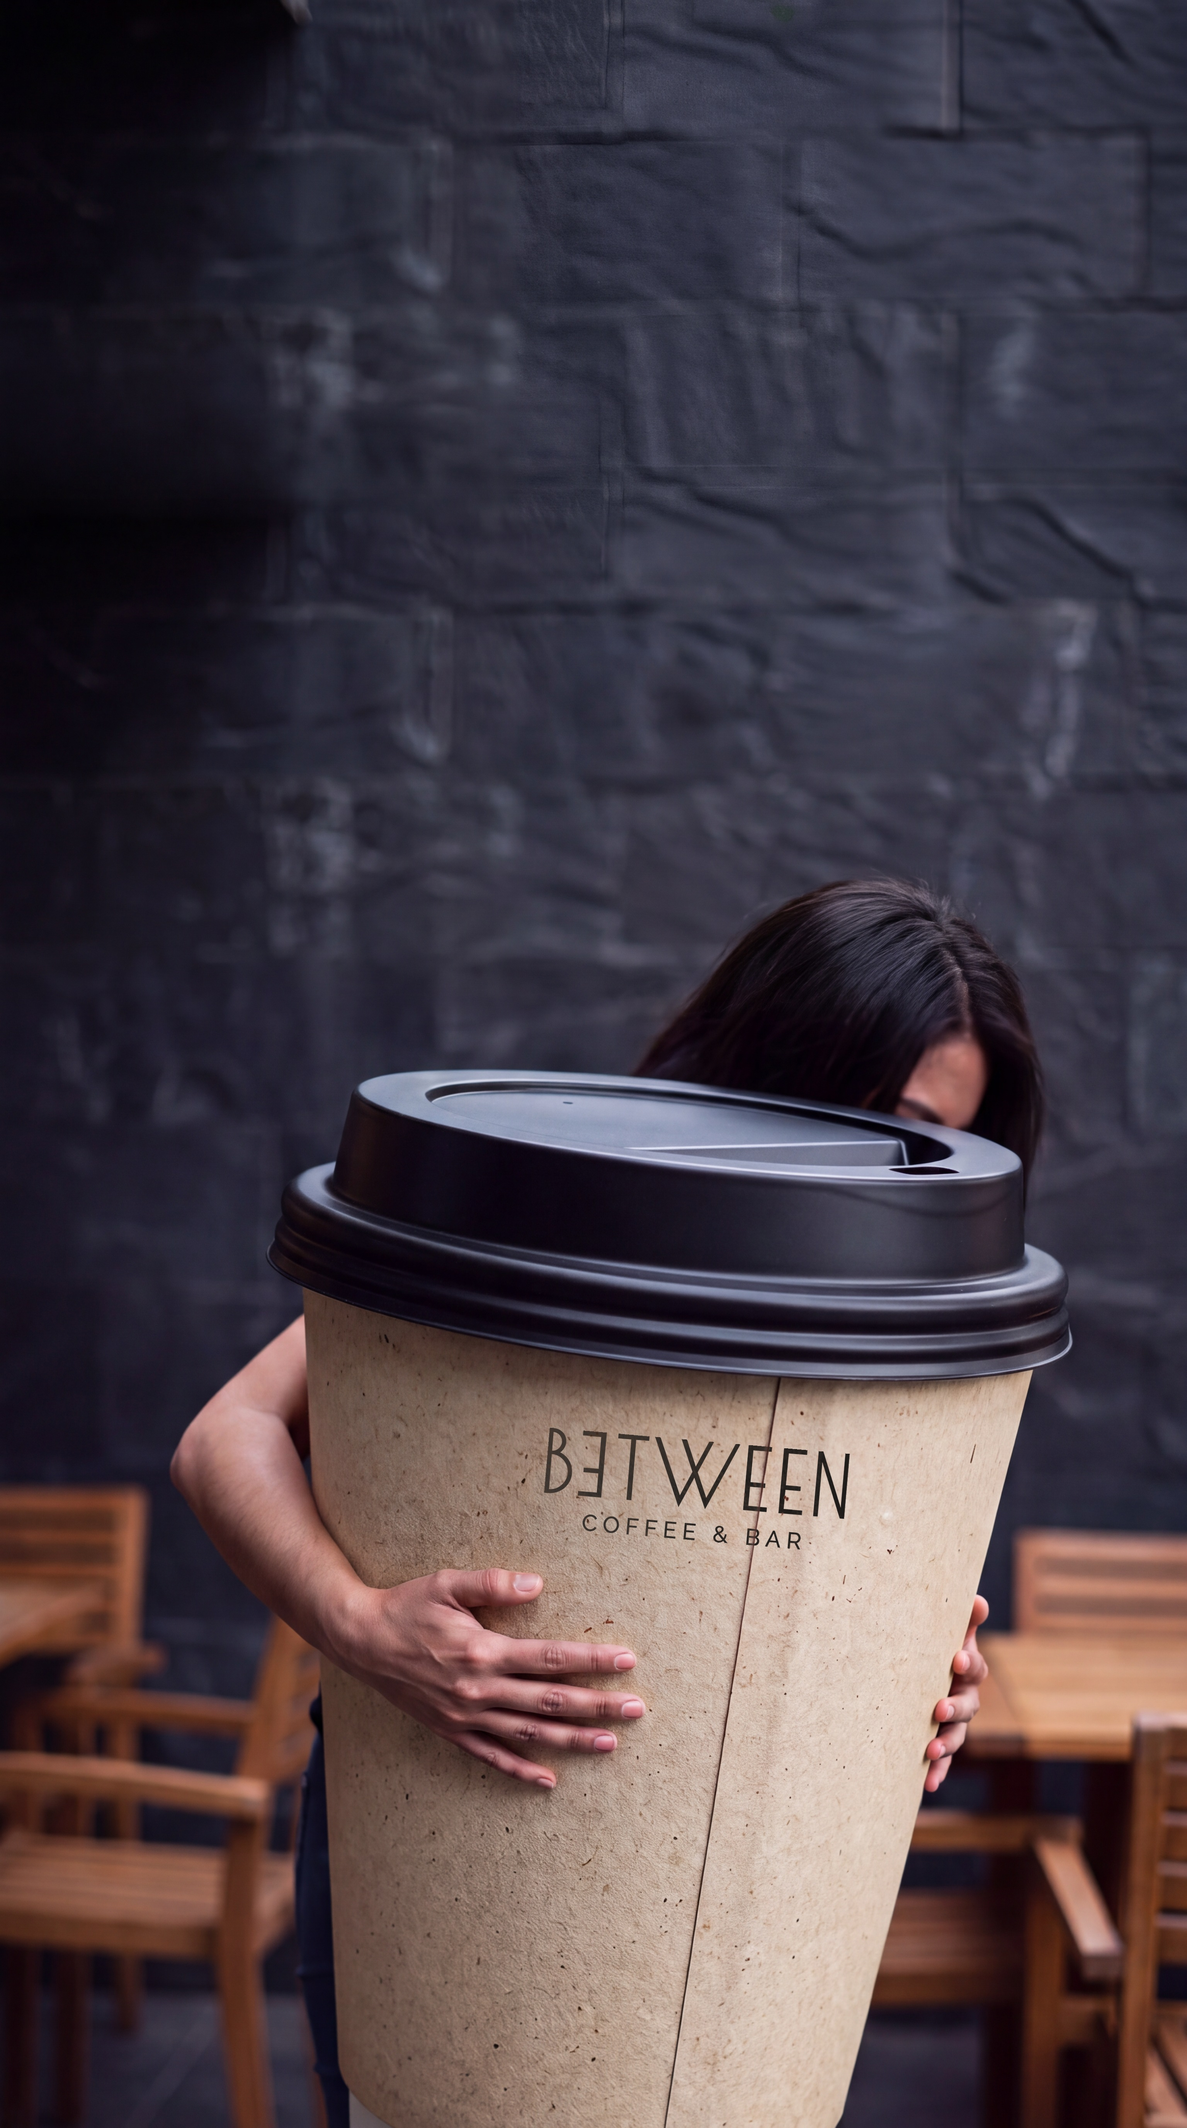
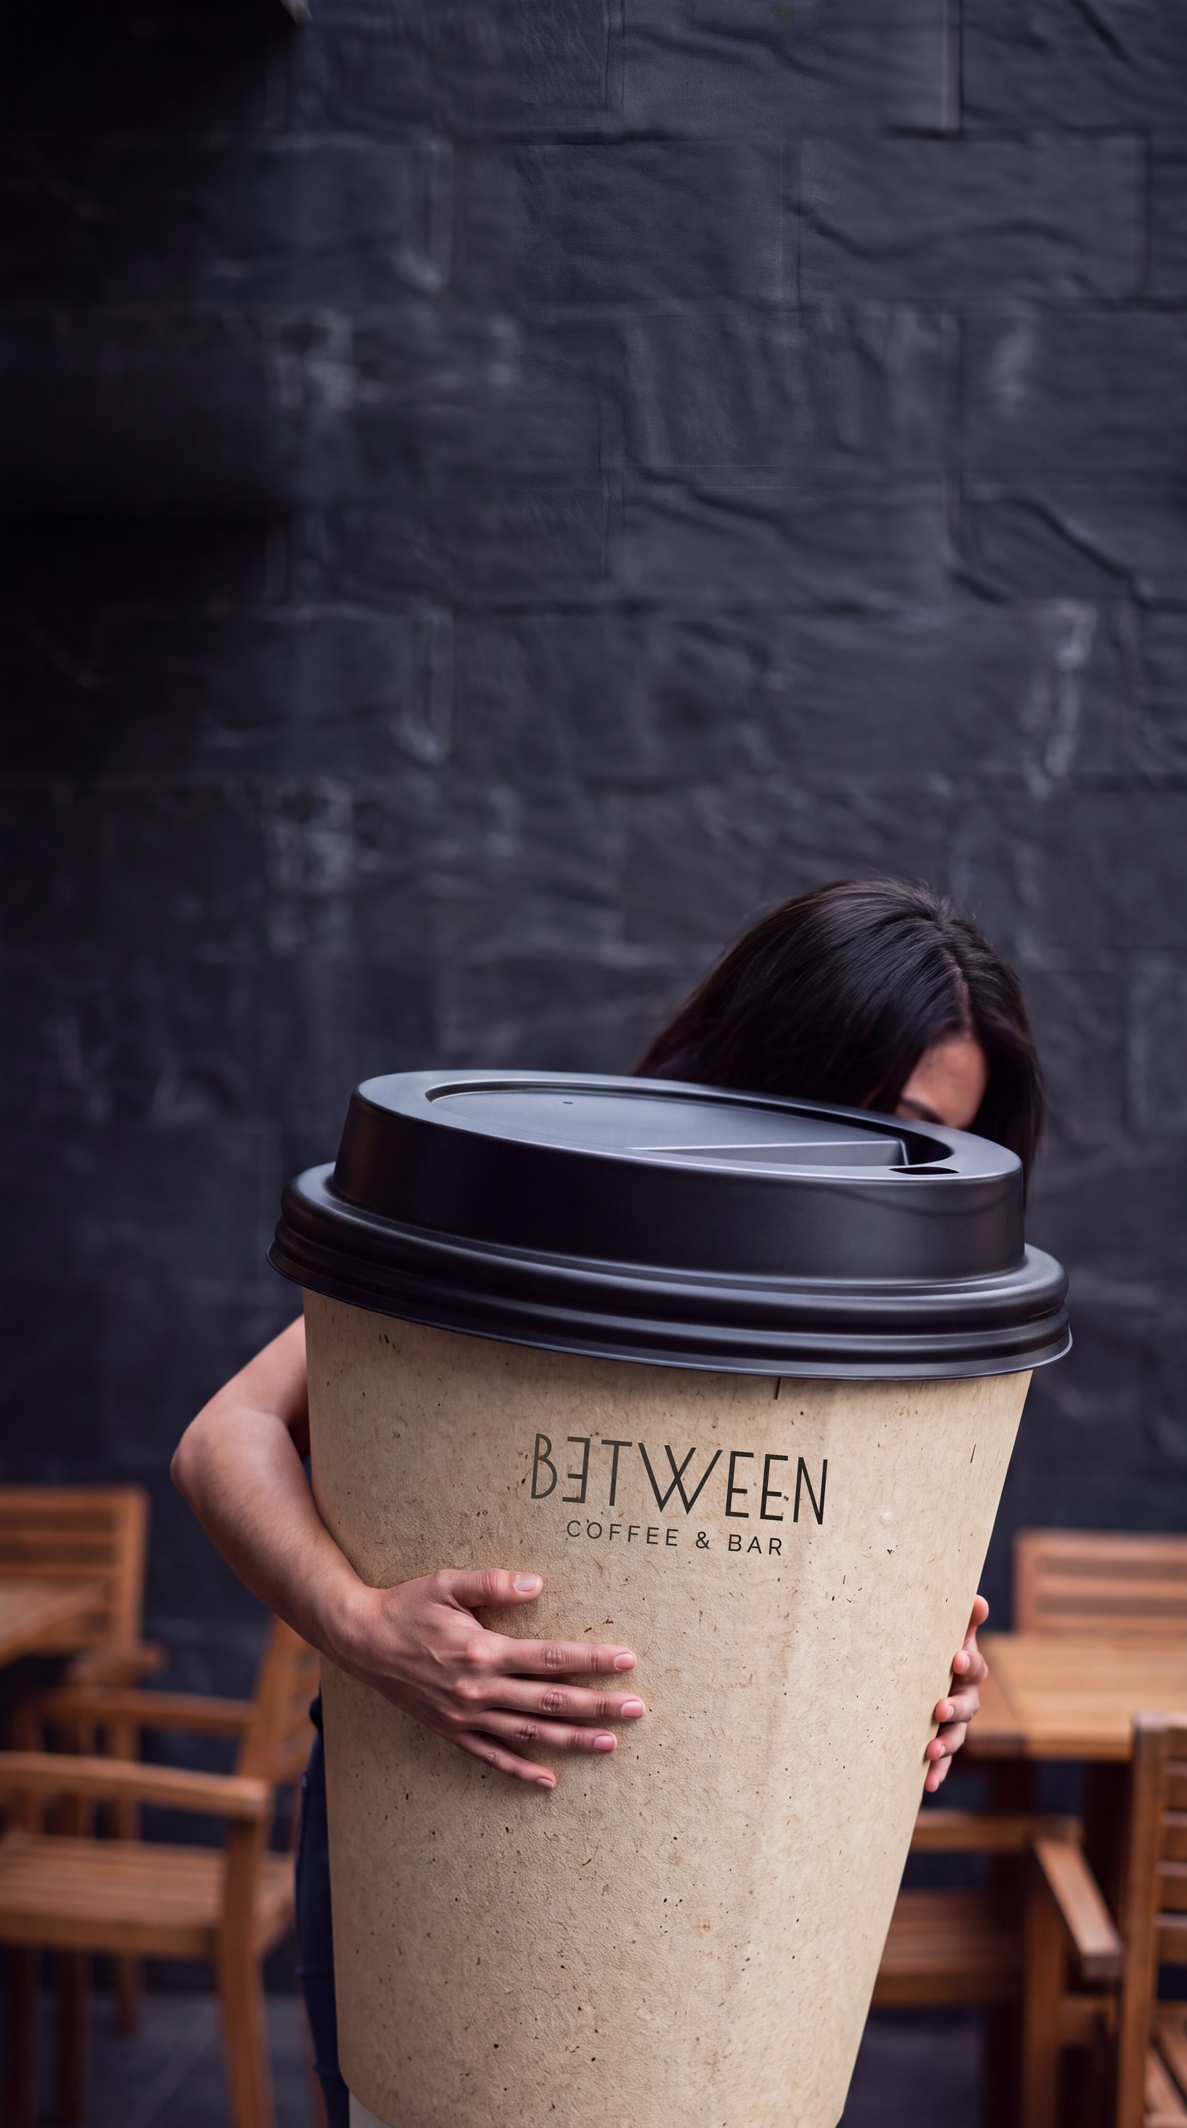
BETWEEN S5 ronda 3: la animada aprobada, y el detalle del vaso de la estatica
La historia 2 (30-09) quedo APROBADA y no se toco. En la 1 (28-09), dos arreglos
de detalle sobre el vaso; el tamano del vaso, las tipografias y la persona
quedaron como estaban. Mismo archivo de Drive: el enlace no cambio.

LA LINEA LA PEDI YO. El prompt de la ronda 2 decia "una costura vertical del
carton" —iba en la lista de detalles fisicos que arreglaron el realismo— y el
generador la puso justo al medio, partiendo el logotipo en "BETW | EEN".
-> Regla: a un generador, los detalles DIRECCIONALES hay que ubicarlos. Sin un
   "al costado", van donde mas estorban.
Script nuevo between-s5-vaso-costura.py: la borra fila a fila interpolando el
carton lateral y devolviendole el grano. La caida de luminancia en esa columna
paso de -13,2 a -2,8 niveles de gris.

"SE VE DESCENTRADO" PODIA NO SER EL LOGOTIPO. Estaba a 50 px del eje (2,6 %).
Lo que desbalanceaba era la linea, que partia la cara del vaso en dos panos
desiguales. Y el eje costo encontrarlo: el borde izquierdo del vaso lo tapa el
brazo, asi que el detector tomaba el fondo oscuro por carton y daba un centro
corrido 200 px. El eje bueno lo da la TAPA, que se ve entera — el eje de un
objeto ocluido se mide donde NO esta ocluido.

ENVOLTURA CILINDRICA (--radio): el logotipo se trata como impreso sobre la
superficie, asi que su ancho es un arco y lo que se ve es la cuerda. NO
contradice la regla del 31-08: el radio se MIDE del propio vaso, la linea de
[…]

Changed region(s): [[0.4375, 0.6562, 0.7188, 0.75], [0.5938, 0.7812, 0.625, 0.875], [0.5625, 0.875, 0.5938, 0.9375]]

diff --git a/scripts/between-s5-logo-vaso.py b/scripts/between-s5-logo-vaso.py
@@ -11,11 +11,29 @@ logotipo horizontal estampado sobre un cilindro inclinado se lee **pegado**:
 la línea de base no sigue al objeto. Es la misma familia de error que el
 cliente cazó en la ronda 5 («el vaso de café nada que ver jajajaja»).
 
-⛔ LA REGLA DEL 31-08 SIGUE EN PIE: EL LOGOTIPO NO SE DEFORMA.
-Lo que se hace acá es una **rotación rígida** — una transformación que conserva
-la forma y la proporción exactas de la marca (3,0278:1, medida sobre la tinta
-del propio archivo). No hay comba cilíndrica, no hay acortado lateral, no hay
-alto independiente del ancho. Rotar no es deformar; arquear sí.
+⛔ LA REGLA DEL 31-08 SIGUE EN PIE: EL LOGOTIPO NO SE DEFORMA A MANO.
+La transformación base es una **rotación rígida** — conserva la forma y la
+proporción exactas de la marca (3,0278:1, medida sobre la tinta del propio
+archivo). No hay alto independiente del ancho.
+
+⭐ RONDA 3 (11-09) — `--radio`: la envoltura cilíndrica, que SÍ corresponde
+Eli: «que el logo se vea más centrado al vaso, como un mockup. El logo debe
+verse realista que está en el vaso, como los originales».
+
+`--radio` aplica la **proyección cilíndrica real**: el logotipo se trata como
+impreso sobre la superficie del vaso, así que su ancho plano es un ARCO y lo que
+se ve en pantalla es su CUERDA. Cada columna se coloca en `x = R·sin(s/R)`, con
+`s` la distancia sobre el papel. Eso comprime progresivamente hacia los bordes y
+es exactamente lo que hace la realidad.
+
+**No es la comba del 31-08.** Aquella era una sinusoide inventada con un acortado
+lateral fijo del 18 % que arqueaba la línea de base y aplastaba las letras de los
+extremos hasta que «COFFEE & BAR» quedaba irreconocible. Acá:
+  · el radio sale de MEDIR el ancho aparente del propio vaso, no se elige;
+  · la línea de base queda RECTA (no se arquea nada);
+  · con el logotipo ocupando 0,4 del diámetro, la compresión máxima —en el
+    borde— es de un 8 %, y es progresiva.
+Si `--radio` no se pasa, el comportamiento es el de antes: rotación rígida sola.
 
 Cómo decide dónde va
 --------------------
@@ -64,6 +82,30 @@ def logo_rigido(ruta, ancho, angulo):
     return im.rotate(angulo, resample=Image.BICUBIC, expand=True), ratio
 
 
+def envolver(logo, radio):
+    """Proyecta el logotipo sobre un cilindro de `radio` px visto de frente.
+
+    El ancho del logotipo es la longitud del ARCO que ocupa sobre el papel; lo
+    que se ve en pantalla es la CUERDA. Para cada columna de salida a distancia
+    `d` del centro, el punto que le corresponde en el logotipo plano está a
+    `s = R·asin(d/R)` del centro. La línea de base no se toca: sólo se comprime
+    en horizontal, y de forma progresiva.
+    """
+    W, H = logo.size
+    if radio <= 0 or W / 2 >= radio:
+        return logo                      # el logotipo no cabe en el cilindro
+    theta = (W / 2) / radio              # medio arco, en radianes
+    ancho_vis = int(round(2 * radio * math.sin(theta)))
+    a = np.asarray(logo).astype(np.float64)
+    d = np.linspace(-ancho_vis / 2, ancho_vis / 2, ancho_vis)
+    s = radio * np.arcsin(np.clip(d / radio, -1, 1))      # posición sobre el papel
+    col = np.clip(s + W / 2, 0, W - 1)
+    i0 = np.floor(col).astype(int); i1 = np.minimum(i0 + 1, W - 1)
+    t = (col - i0)[None, :, None]
+    fuera = a[:, i0, :] * (1 - t) + a[:, i1, :] * t
+    return Image.fromarray(np.clip(fuera, 0, 255).astype(np.uint8), 'RGBA')
+
+
 def estampar(base, logo, centro, fuerza, absorcion):
     """MULTIPLY del logotipo sobre el cartón, respetando la sombra del vaso.
 
@@ -108,17 +150,28 @@ def main():
                     help='grados; negativo = el extremo derecho baja (vaso inclinado a la derecha)')
     ap.add_argument('--fuerza', type=float, default=0.95)
     ap.add_argument('--absorcion', type=float, default=0.18)
+    ap.add_argument('--radio', type=int, default=0,
+                    help='radio aparente del vaso en px; activa la envoltura cilíndrica')
     ap.add_argument('--logo', default=str(LOGO))
     a = ap.parse_args()
 
     base = Image.open(a.entrada).convert('RGB')
     logo, ratio = logo_rigido(a.logo, a.ancho, a.angulo)
+    plano = logo.width
+    if a.radio:
+        logo = envolver(logo, a.radio)
     fuera, caja = estampar(base, logo, tuple(a.centro), a.fuerza, a.absorcion)
     Path(a.salida).parent.mkdir(parents=True, exist_ok=True)
     fuera.save(a.salida)
 
     print(f'logotipo: proporcion {ratio:.4f} (intacta) · ancho {a.ancho} · '
-          f'angulo {a.angulo}° · bloque rotado {logo.width}x{logo.height}')
+          f'angulo {a.angulo}° · bloque {logo.width}x{logo.height}')
+    if a.radio:
+        import math as _m
+        th = _m.degrees((plano / 2) / a.radio)
+        print(f'  envoltura cilindrica: radio {a.radio} px · el logotipo abarca '
+              f'{2*th:.1f}° del vaso · compresion en el borde {_m.cos(_m.radians(th))*100:.1f} % '
+              f'· ancho aparente {logo.width} (plano {plano})')
     print(f'estampado en {caja}  ->  {a.salida}')
 
 

diff --git a/scripts/between-s5-vaso-costura.py b/scripts/between-s5-vaso-costura.py
@@ -1,0 +1,114 @@
+#!/usr/bin/env python3
+"""
+Borra la COSTURA vertical del vaso To Go gigante de la ST del 28-09 (S5).
+
+Por qué existe
+--------------
+Ronda 3 (11-09-2026). Eli: «Tienes que borrar esa línea que se ve y que el logo
+se vea más centrado al vaso, como un mockup».
+
+La línea la pedí yo. El prompt de la ronda 2 decía «una costura vertical del
+cartón» —estaba en la lista de detalles físicos que hacen que el vaso se vea
+real— y el generador la puso **justo al medio de la cara visible**, partiendo el
+logotipo en «BETW | EEN». En el vaso real la costura existe, pero cae al costado
+y casi no se ve.
+
+> ⭐ **La lección:** al pedirle a un generador los detalles físicos de un objeto,
+> hay que decir **DÓNDE** van los que son direccionales. «Costura vertical» sin
+> ubicación la pone donde más molesta, que es el centro.
+
+Cómo lo hace
+------------
+La costura es una columna más oscura que su entorno sobre un cartón de textura
+pareja. Para cada fila se reemplaza la franja por una interpolación del cartón
+que queda a izquierda y derecha, y se le devuelve el grano copiando la textura de
+la franja izquierda — el mismo criterio de `_parche_lateral` de
+`between-logo-vaso.py`, que ya se usó para borrar logotipos inventados.
+
+⚠ Se detecta la columna por fila, no se asume recta: el vaso está levemente
+inclinado y la costura sigue su eje.
+
+Uso:
+    python scripts/between-s5-vaso-costura.py <entrada> <salida> \
+        --x 1982 --desde 3600 --hasta 5504 [--ancho 26] [--busqueda 40]
+"""
+import argparse
+from pathlib import Path
+
+import numpy as np
+from PIL import Image, ImageFilter
+
+
+def columna_de_la_costura(g, y, x_guia, busqueda, suavizado=61):
+    """Devuelve la columna más oscura respecto de su entorno, cerca de `x_guia`."""
+    x0, x1 = max(x_guia - busqueda, 0), min(x_guia + busqueda, g.shape[1] - 1)
+    franja = g[max(y - 6, 0):y + 7]
+    perfil = franja.mean(axis=0)
+    suave = np.convolve(perfil, np.ones(suavizado) / suavizado, mode='same')
+    dif = (perfil - suave)[x0:x1]
+    return int(np.argmin(dif)) + x0, float(dif.min())
+
+
+def borrar(im, x_guia, desde, hasta, ancho, busqueda, umbral):
+    a = np.asarray(im).astype(np.float64)
+    g = a.mean(axis=2)
+    H, W, _ = a.shape
+    fuera = a.copy()
+    mitad = ancho // 2
+    muestra = max(ancho, 18)
+    tocadas = 0
+    x = x_guia
+
+    for y in range(max(desde, 0), min(hasta, H)):
+        cx, caida = columna_de_la_costura(g, y, x, busqueda)
+        if caida > -umbral:              # acá la costura ya no se nota
+            continue
+        x = cx                            # la costura sigue el eje del vaso
+        tocadas += 1
+        i0, i1 = cx - mitad, cx + mitad + 1
+        if i0 - muestra < 0 or i1 + muestra >= W:
+            continue
+        izq = a[y, i0 - muestra:i0].mean(axis=0)
+        der = a[y, i1:i1 + muestra].mean(axis=0)
+        t = np.linspace(0.0, 1.0, i1 - i0)[:, None]
+        plano = izq[None, :] * (1 - t) + der[None, :] * t
+        # grano: la desviación de la franja izquierda respecto de su media
+        franja = a[y, i0 - muestra:i0]
+        grano = (franja - franja.mean(axis=0)) * 0.8
+        veces = int(np.ceil((i1 - i0) / max(len(grano), 1)))
+        grano = np.tile(grano, (veces, 1))[:i1 - i0]
+        fuera[y, i0:i1] = np.clip(plano + grano, 0, 255)
+
+    parche = Image.fromarray(fuera.astype(np.uint8))
+    # un desenfoque mínimo SÓLO sobre la banda, para que no quede un canto duro
+    suave = parche.filter(ImageFilter.GaussianBlur(1.2))
+    mascara = Image.new('L', im.size, 0)
+    m = np.asarray(mascara).copy()
+    m[max(desde, 0):min(hasta, H), max(x_guia - mitad - busqueda, 0):x_guia + mitad + busqueda] = 255
+    mascara = Image.fromarray(m).filter(ImageFilter.GaussianBlur(6))
+    parche = Image.composite(suave, parche, mascara)
+    return parche, tocadas
+
+
+def main():
+    ap = argparse.ArgumentParser()
+    ap.add_argument('entrada')
+    ap.add_argument('salida')
+    ap.add_argument('--x', type=int, required=True, help='columna aproximada de la costura')
+    ap.add_argument('--desde', type=int, required=True)
+    ap.add_argument('--hasta', type=int, required=True)
+    ap.add_argument('--ancho', type=int, default=26)
+    ap.add_argument('--busqueda', type=int, default=40)
+    ap.add_argument('--umbral', type=float, default=2.5,
+                    help='caída mínima de luminancia para considerar que hay costura')
+    a = ap.parse_args()
+
+    im = Image.open(a.entrada).convert('RGB')
+    fuera, n = borrar(im, a.x, a.desde, a.hasta, a.ancho, a.busqueda, a.umbral)
+    Path(a.salida).parent.mkdir(parents=True, exist_ok=True)
+    fuera.save(a.salida)
+    print(f'costura borrada en {n} filas (de {a.hasta - a.desde})  ->  {a.salida}')
+
+
+if __name__ == '__main__':
+    main()

diff --git a/clients/hilton/CLAUDE.md b/clients/hilton/CLAUDE.md
@@ -7171,3 +7171,70 @@ a 5° porque con el encuadre nuevo el vaso quedó casi vertical.
 > ⚠ Y una consecuencia del acercamiento que conviene anotar: **el logotipo del
 > producto también tiene zona segura**. Cuando el producto crece dentro del
 > cuadro, su marca puede terminar bajo la barra de la app. Hay que mirarlo.
+
+## ⭐ RONDA 3 DE LA S5 (11-09, tarde) — el detalle del vaso
+
+> «La historia número dos animada queda aprobada. La número uno tiene un leve
+> problema en el vaso. Tienes que borrar esa línea que se ve y que el logo se vea
+> más centrado al vaso, como un mockup. El logo debe verse realista que está en el
+> vaso, como los originales. El tamaño está ideal del vaso y también está bien las
+> tipografías y la persona.»
+
+**La del 30-09 queda APROBADA** y no se tocó.
+
+### ⛔ LA LÍNEA LA PEDÍ YO — «costura vertical» sin decir DÓNDE
+
+El prompt de la ronda 2 traía «una costura vertical del cartón» dentro de la lista
+de detalles físicos que hicieron que el vaso dejara de verse falso. Funcionó
+demasiado bien: el generador la puso **justo al medio de la cara visible**,
+partiendo el logotipo en «BETW | EEN». En el vaso real la costura existe, pero cae
+al costado y casi no se nota.
+
+> ⭐⭐ **Regla: a un generador, los detalles DIRECCIONALES hay que ubicarlos.**
+> «Costura vertical», «etiqueta», «asa», «pliegue» — sin un «al costado, fuera de
+> la cara principal» van a parar donde más estorban, que es el centro. La lista de
+> piezas físicas de un objeto sirve para el realismo (ronda 2), pero cada pieza que
+> sea direccional necesita su ubicación.
+
+Se borró con `scripts/between-s5-vaso-costura.py`: para cada fila se reconstruye
+la franja interpolando el cartón de sus dos costados y se le devuelve el grano
+copiando la textura de la franja izquierda — el mismo criterio de
+`_parche_lateral` de `between-logo-vaso.py`. **Medido:** la caída de luminancia en
+esa columna pasó de **−13,2 a −2,8** niveles de gris. La detección va **fila a
+fila**, no asume la costura recta, porque sigue el eje del vaso.
+
+### ⭐⭐ «SE VE DESCENTRADO» PODÍA NO SER EL LOGOTIPO — ERA LA LÍNEA
+
+El logotipo estaba en x=1800 y el eje real del vaso está en **x≈1750**: cincuenta
+píxeles sobre un vaso de 1900 de ancho, un 2,6 %. Casi centrado. Lo que se leía
+corrido era el conjunto **logotipo + línea**: la costura dejaba un paño ancho a la
+izquierda y uno angosto a la derecha, y el ojo lee el bloque contra el paño grande.
+
+⚠ **Y encontrar el eje costó, porque el borde izquierdo del vaso NO SE VE: lo tapa
+el brazo.** Un detector de «cartón» sobre esa fila toma el fondo oscuro por vaso y
+devuelve un centro corrido 200 px a la izquierda — llegué a estampar sobre ese
+valor falso antes de cazarlo. **El eje se saca de la TAPA**, que es lo único que se
+ve entero, midiendo su borde izquierdo y derecho. Cuando un objeto está
+parcialmente ocluido, el eje se mide en la parte que no lo está.
+
+### ⭐ LA ENVOLTURA CILÍNDRICA — y por qué NO contradice la regla del 31-08
+
+Eli pidió «como un mockup… realista que está en el vaso, como los originales».
+`between-s5-logo-vaso.py` tiene ahora `--radio`, que trata el logotipo como
+impreso sobre la superficie: su ancho es un **arco** y lo que se ve en pantalla es
+la **cuerda**, así que cada columna se coloca en `x = R·sin(s/R)`.
+
+| | la comba prohibida del 31-08 | `--radio` |
+|---|---|---|
+| origen del valor | inventado | el **radio medido** del propio vaso |
+| línea de base | **arqueada** por una sinusoide | **recta** |
+| compresión lateral | fija, 18 %, en los extremos | progresiva, **8 % en el borde** |
+| resultado | «COFFEE & BAR» irreconocible | serigrafía creíble |
+
+La regla sigue en pie: **el logotipo no se deforma a mano**. Lo que se hace es
+reproducir lo que la óptica hace con una superficie curva, con el radio medido. La
+proporción de la marca, 3,0278, queda intacta.
+
+Parámetros finales:
+`--centro 1755 3870 --ancho 780 --angulo -5 --radio 948` — el logotipo abarca
+48,4° del cilindro y su ancho aparente baja de 800 a 776 px.

diff --git a/clients/hilton/BITACORA.md b/clients/hilton/BITACORA.md
@@ -1,3 +1,52 @@
+## 2026-09-11 (RONDA 3) · Eli (Windows) — BETWEEN S5: la animada aprobada, y el detalle del vaso
+
+**La historia 2 (30-09, animada) quedó APROBADA** y no se tocó. En la 1 (28-09)
+Eli pidió dos arreglos de detalle sobre el vaso; el tamaño del vaso, las
+tipografías y la persona quedaron como estaban. Se reemplazó el contenido del
+**mismo archivo** de Drive: el enlace no cambió.
+
+**Lo que pidió, textual:**
+
+> «Tienes que borrar esa línea que se ve y que el logo se vea más centrado al vaso,
+> como un mockup. El logo debe verse realista que está en el vaso, como los
+> originales.»
+
+**Los tres hallazgos:**
+
+1. ⛔ **La línea la pedí yo.** El prompt de la ronda 2 decía «una costura vertical
+   del cartón» —iba en la lista de detalles físicos que arreglaron el realismo— y
+   el generador la puso justo al medio, partiendo el logotipo en «BETW | EEN».
+   → **Regla: a un generador, los detalles DIRECCIONALES hay que ubicarlos.**
+   Sin un «al costado», van donde más estorban.
+2. ⭐⭐ **«Se ve descentrado» podía no ser el logotipo.** Estaba a 50 px del eje
+   (2,6 %). Lo que desbalanceaba era la línea, que partía la cara del vaso en dos
+   paños desiguales. Antes de mover un elemento, mirar qué más hay en su entorno.
+3. ⚠ **El eje de un objeto ocluido se mide donde NO está ocluido.** El borde
+   izquierdo del vaso lo tapa el brazo, así que el detector tomaba el fondo oscuro
+   por cartón y daba un centro corrido 200 px. El eje bueno lo da **la tapa**, que
+   se ve entera. Llegué a estampar sobre el valor falso antes de cazarlo.
+
+**Lo que se hizo:**
+
+- `scripts/between-s5-vaso-costura.py` — **script nuevo**: borra la costura fila a
+  fila interpolando el cartón lateral y devolviéndole el grano. Medido: la caída de
+  luminancia en esa columna pasó de −13,2 a −2,8 niveles de gris.
+- `scripts/between-s5-logo-vaso.py` — opción **`--radio`**: envoltura cilíndrica
+  real (el ancho del logotipo es un arco, lo que se ve es la cuerda). No contradice
+  la regla del 31-08: la línea de base queda recta, el radio se mide y la
+  compresión es del 8 % en el borde, progresiva.
+- QA: margen 99/97, zonas seguras libres, contraste 8,7–11,8:1 — sin cambios.
+
+**Dónde quedó:**
+
+- `public/assets/hilton/between/s5/st-28-09-togo.jpg` — el fondo nuevo.
+- `raw/hilton/between/s5/r4-togo-sin-costura.png` — la escena sin costura ni logo.
+- Drive: mismo id, 9 926 928 bytes, verificado.
+- Revisión (versión 3): <https://claude.ai/code/artifact/7a48f6ca-fded-4a5a-bb00-70c3046a1072>
+
+**Abierto:** lo mismo de la ronda 2 — el video sin audio, el corte de línea del
+titular del 28-09, la chica generada y el falso positivo de `between-qa.py`.
+
 ## 2026-09-11 (RONDA 2) · Eli (Windows) — BETWEEN S5: aparece el plato real y el vaso deja de parecer maqueta
 
 Eli mandó **dos sesiones de fotos** y con eso cayeron los dos puntos débiles de la
